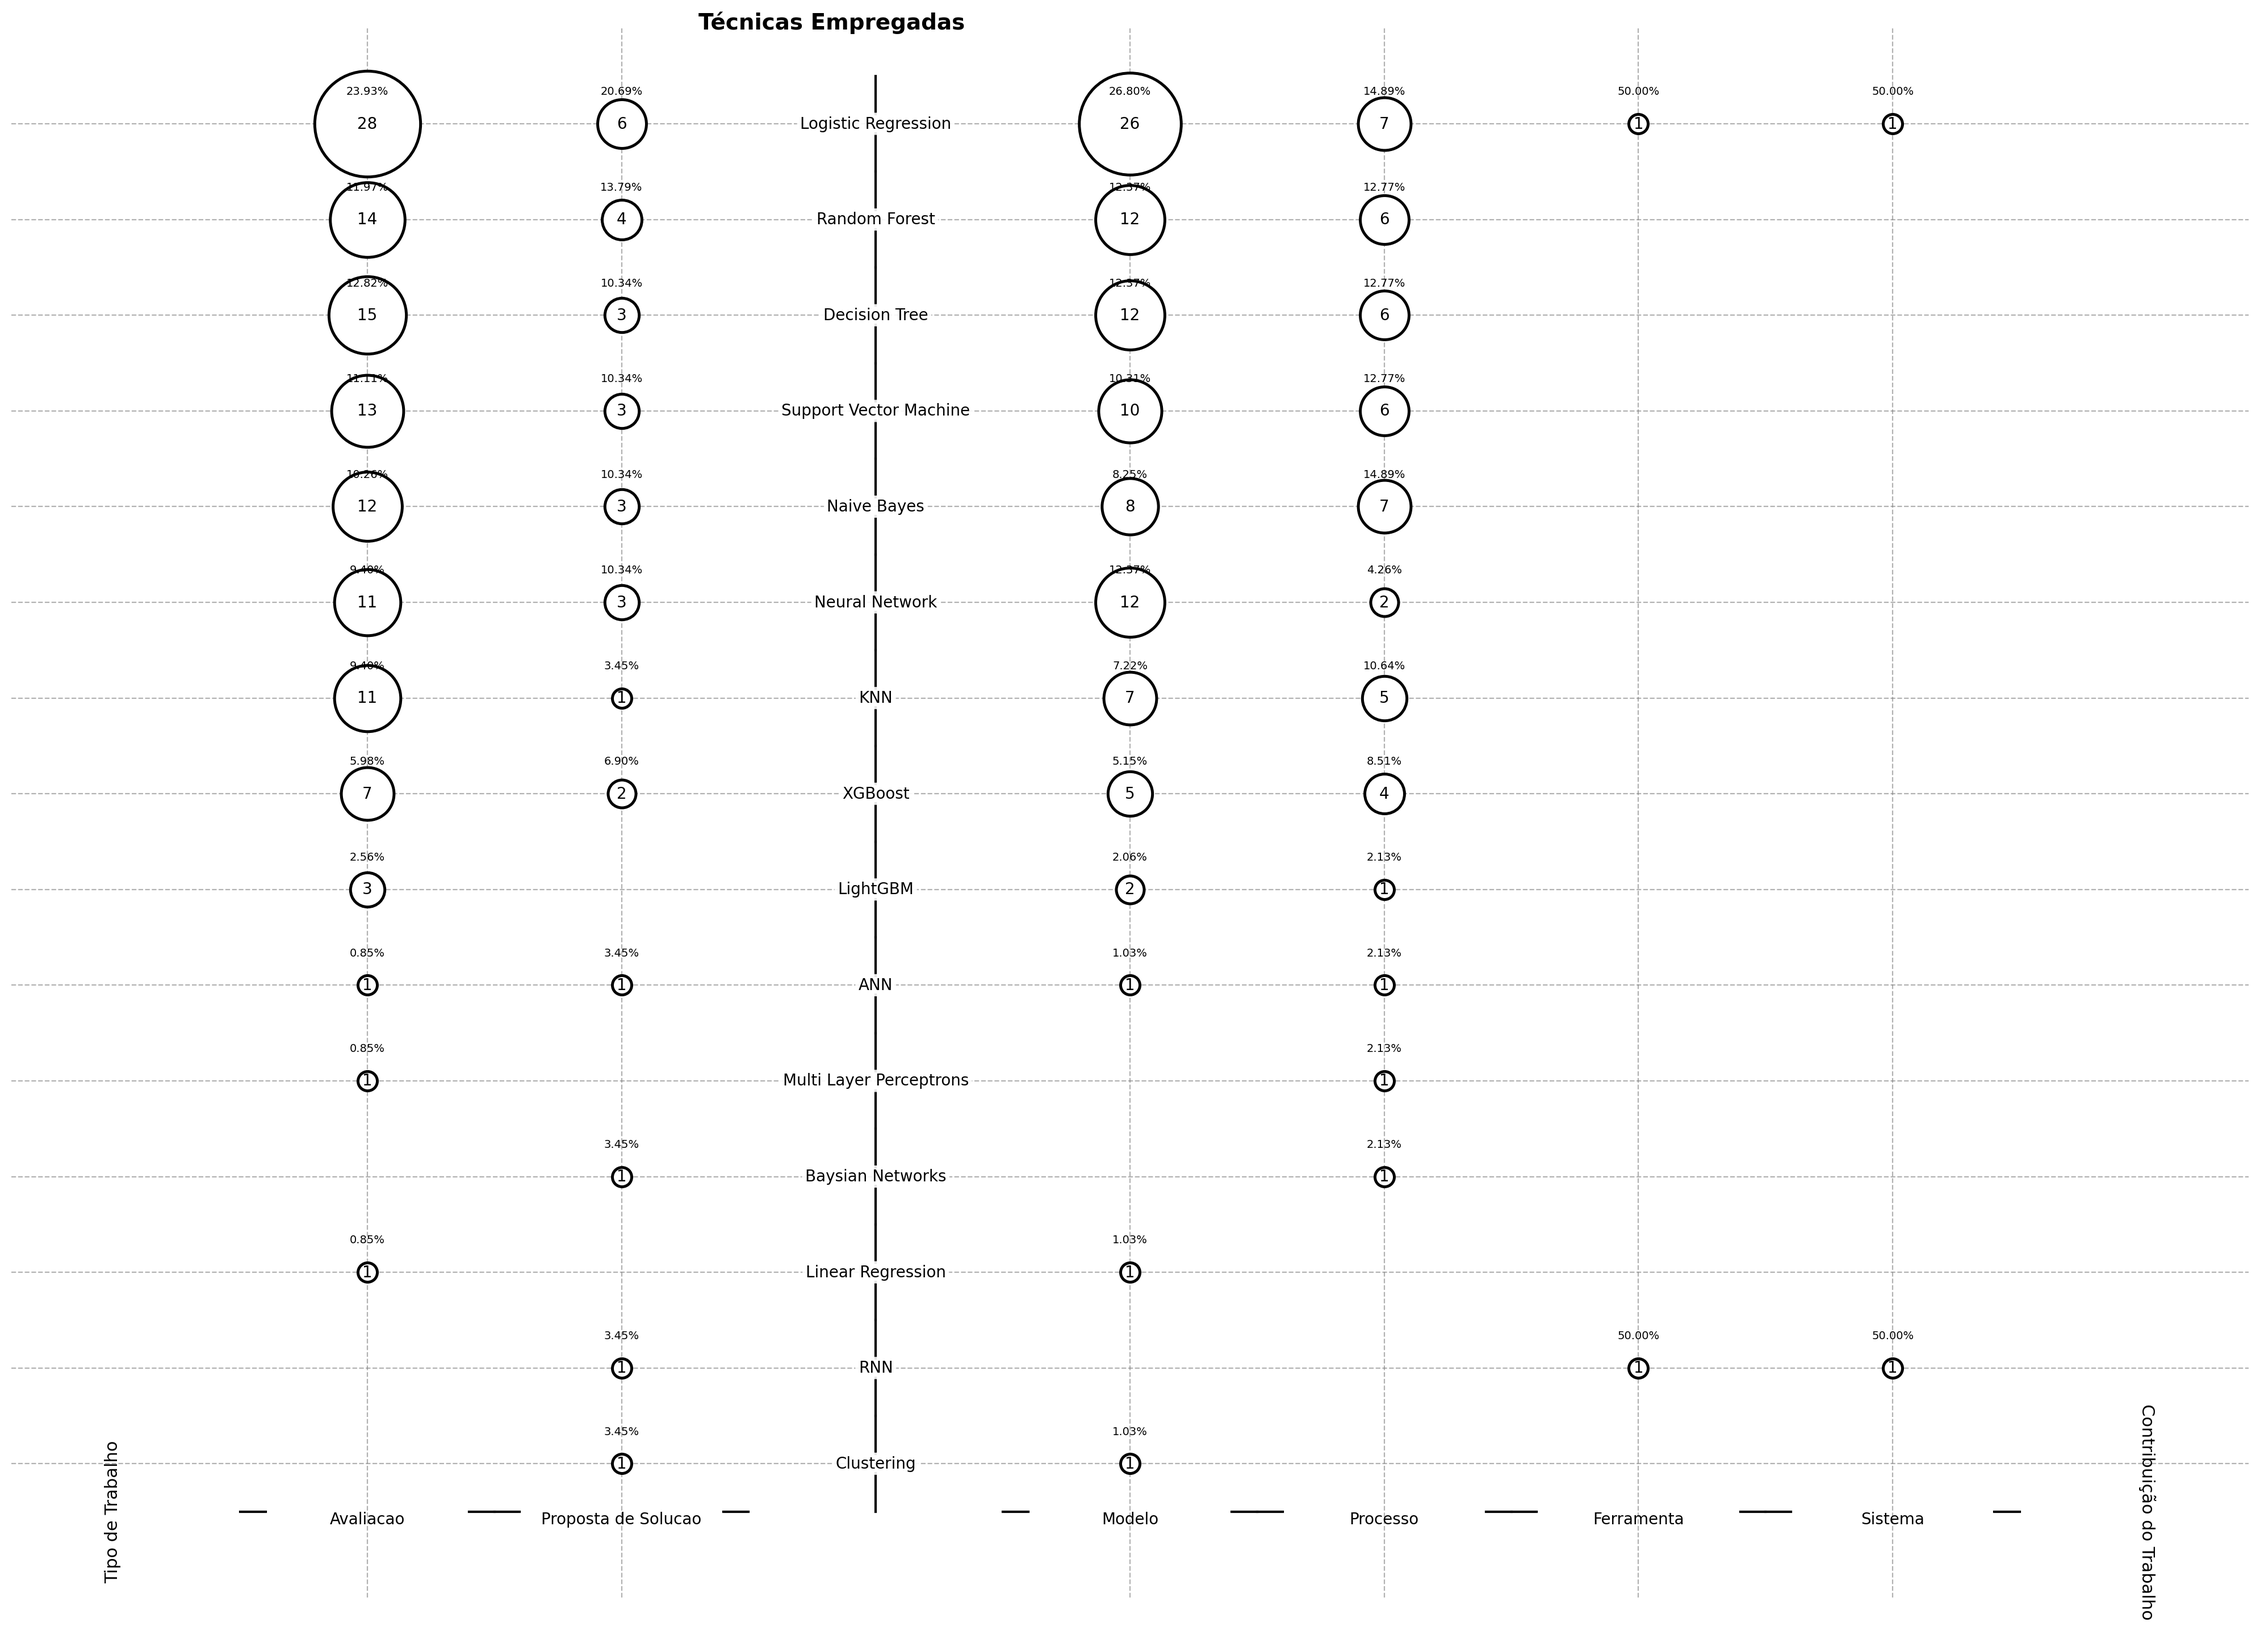
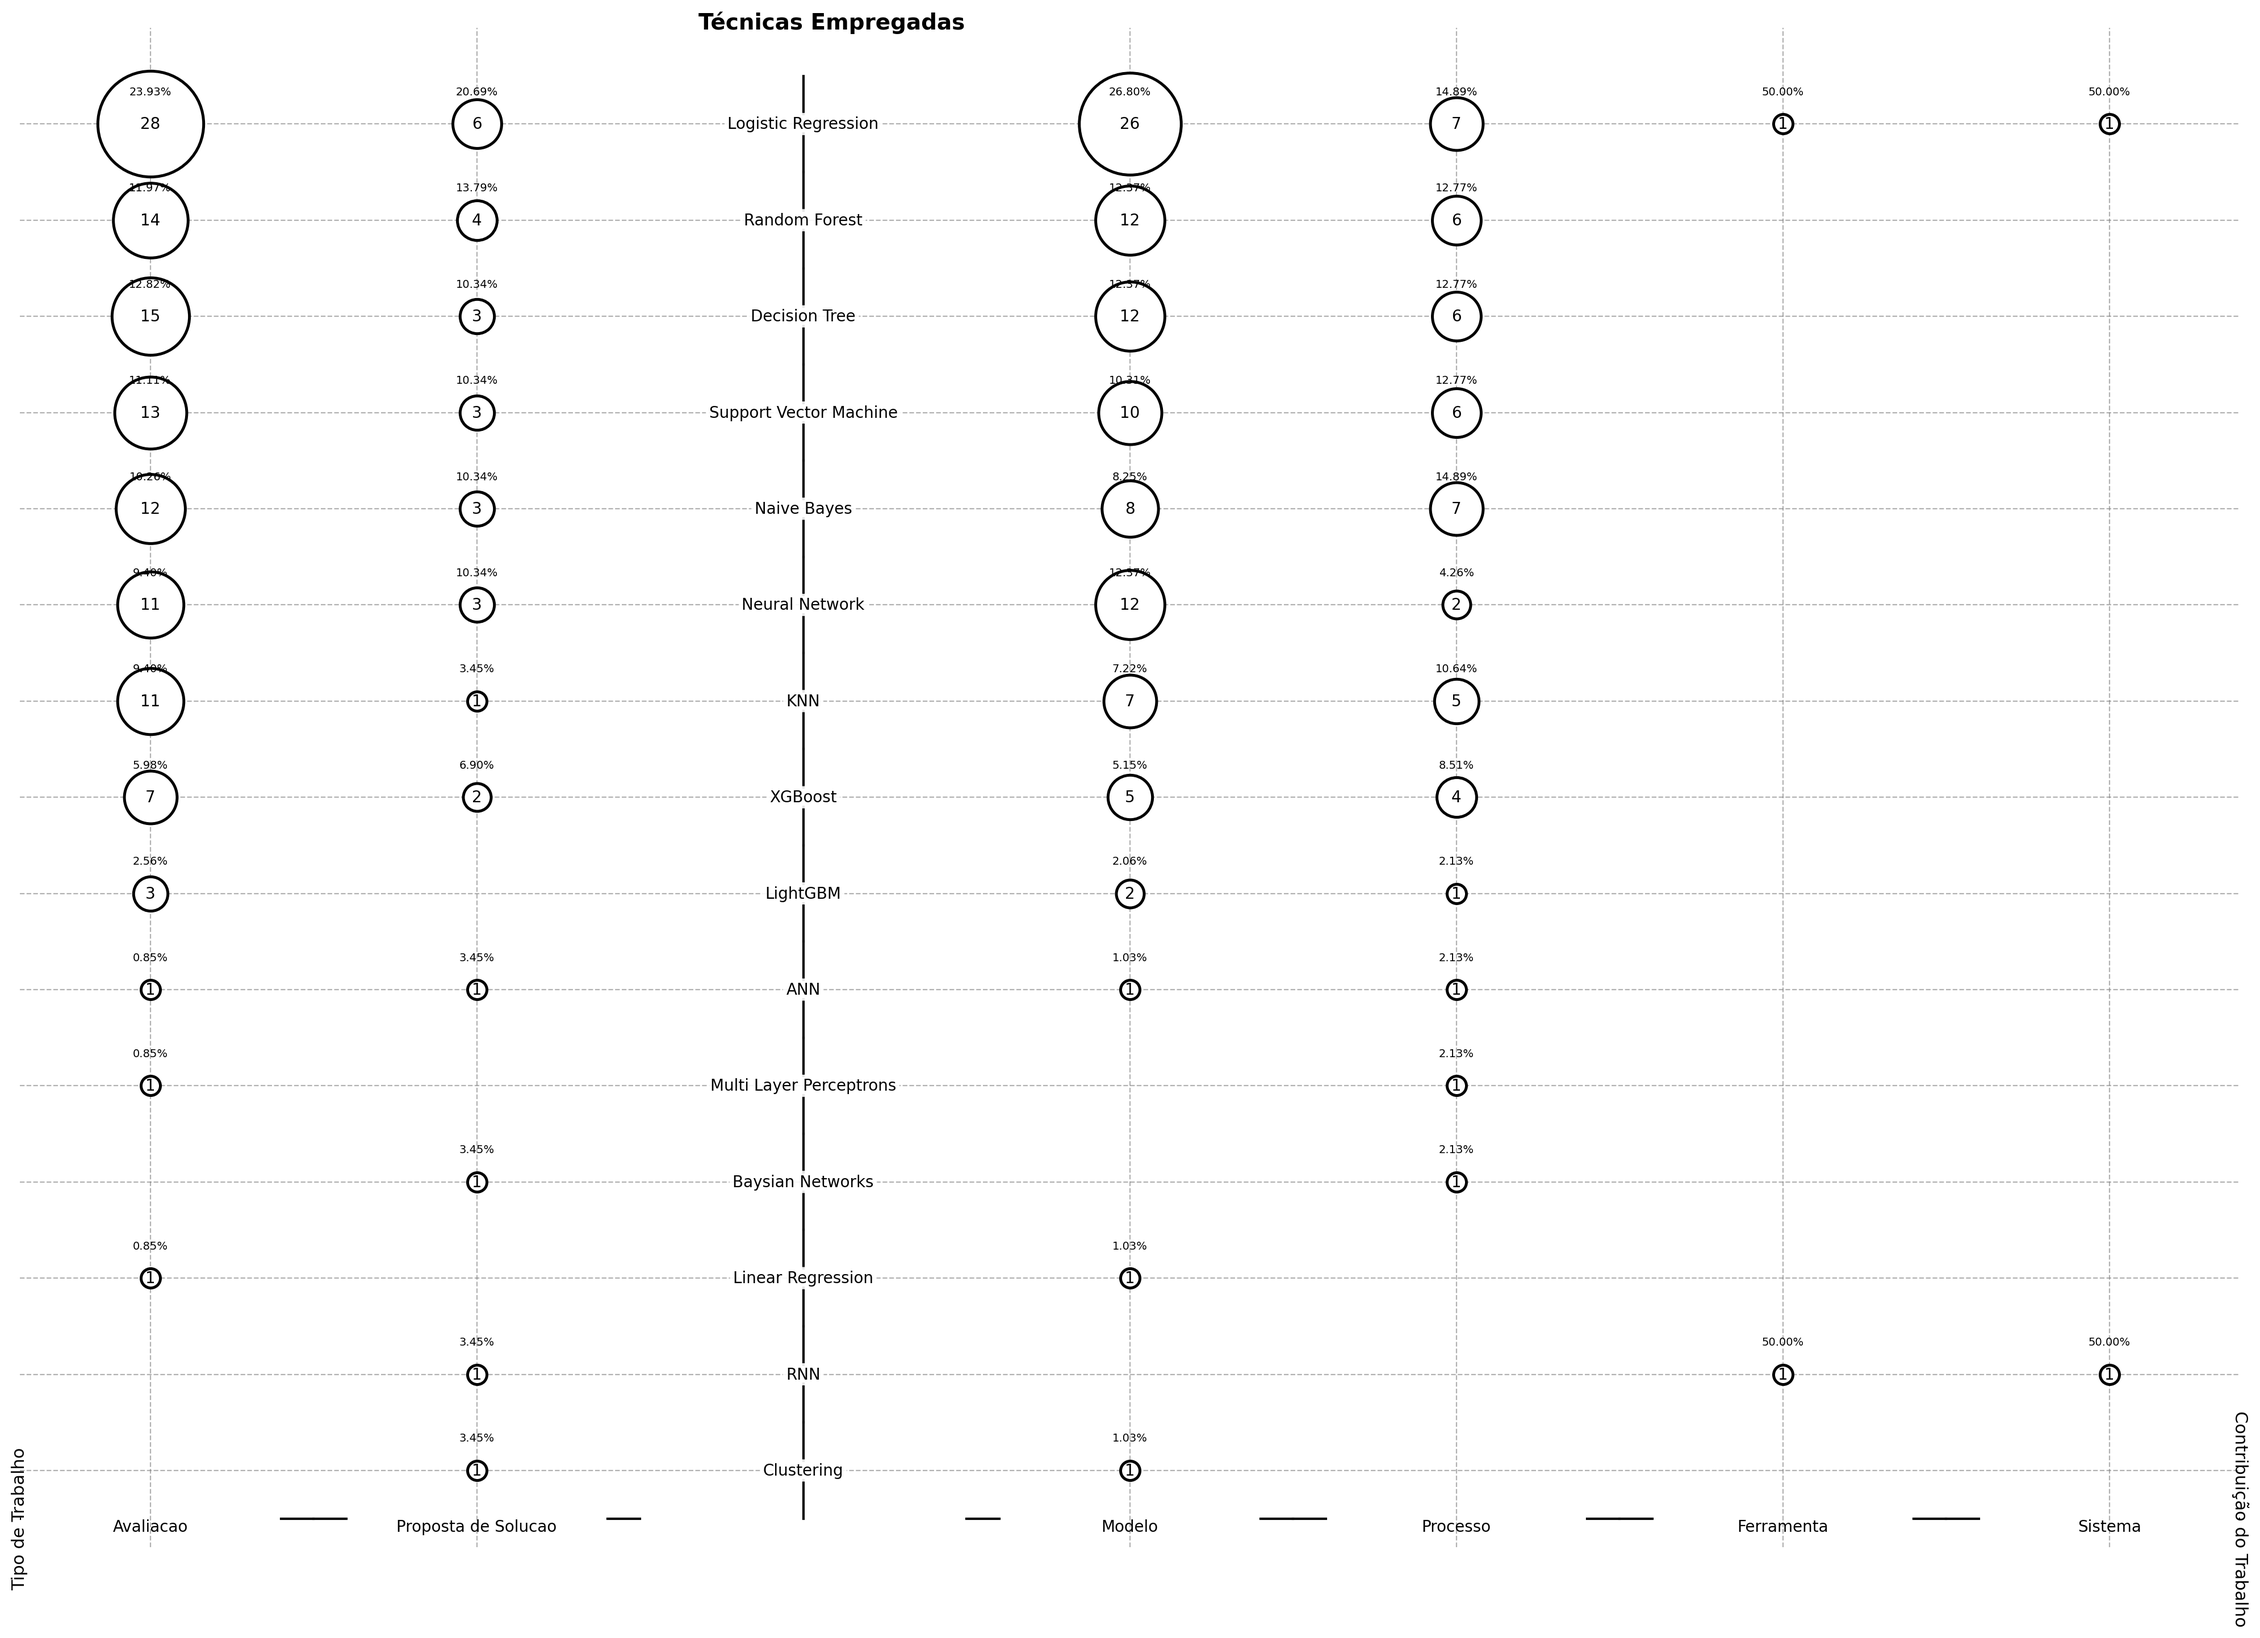
style: encurtamento das linhas horizontais tracejadas

diff --git a/gera_matrix_bubble_charts.py b/gera_matrix_bubble_charts.py
@@ -30,7 +30,7 @@ import matplotlib.pyplot as plt
 INPUT_CSV = Path("./ArtigosSelecionados/artigos_selecionados_TodasBases.csv")
 OUT_ROOT = Path("./Graficos/MatrixBubbleCharts")
 SHOW_PERCENT = True          # True = exibe porcentagens nas bolhas
-FIGSIZE = (12, 10)
+FIGSIZE = (20, 16)
 DPI = 200
 LEFT_AXIS_NAME = "Tipo de Trabalho"
 RIGHT_AXIS_NAME = "Contribuição do Trabalho"
@@ -252,8 +252,8 @@ def plot_matrix_bubble(
     # rótulos laterais verticais (nomes dos eixos horizontais)
     # y_mid = (max(ys) - 0) / 2
     y_baseline = -0.5
-    ax.text(min(all_x) - 1.0, y_baseline, left_axis_name, rotation=90, va="center", ha="center", fontsize=11, zorder=3)
-    ax.text(max(all_x) + 1.0, y_baseline, right_axis_name, rotation=270, va="center", ha="center", fontsize=11, zorder=3)
+    ax.text(min(all_x) - 0.4, y_baseline, left_axis_name, rotation=90, va="center", ha="center", fontsize=11, zorder=3)
+    ax.text(max(all_x) + 0.4, y_baseline, right_axis_name, rotation=270, va="center", ha="center", fontsize=11, zorder=3)
 
     # ------------ RÓTULOS DO EIXO VERTICAL ------------
     for v in vert_labels:
@@ -287,9 +287,9 @@ def plot_matrix_bubble(
             ax.text(x_right[s], y_pos[v] + 0.28, f"{pct:.2f}%", ha="center", va="bottom", fontsize=7, zorder=4)
 
     # limites, margem e esconder eixos
-    x_min, x_max = min(all_x) - 1.4, max(all_x) + 1.4
+    x_min, x_max = min(all_x) - 0.4, max(all_x) + 0.4
     ax.set_xlim(x_min, x_max)
-    ax.set_ylim(-1.4, max(ys) + 1.0)
+    ax.set_ylim(-0.8, max(ys) + 1.0)
     ax.axis("off")
 
     out_path.parent.mkdir(parents=True, exist_ok=True)
